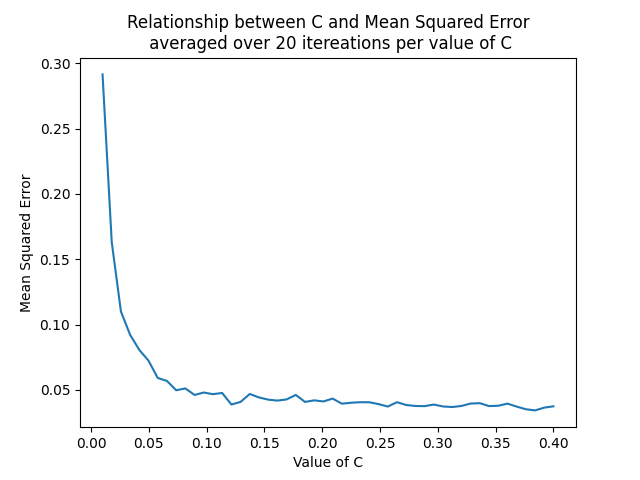
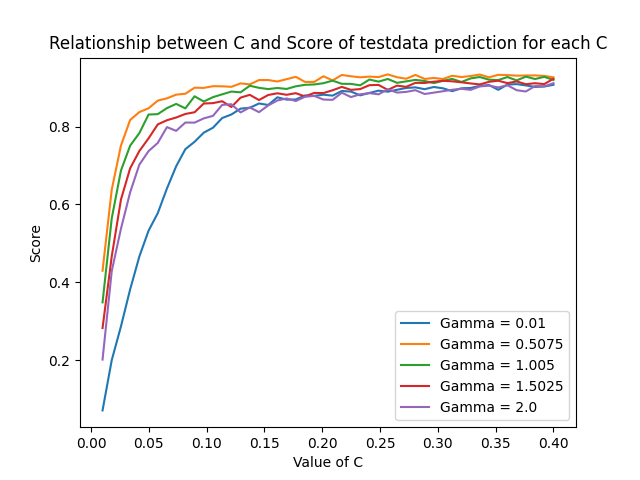
..

diff --git a/08_SVM/HW8.py b/08_SVM/HW8.py
@@ -17,10 +17,16 @@ def _plot_linear_kernel():
     clf = svm.SVC(kernel='linear',C=1000)
     clf.fit(X,t)
     plot_svm_margin(clf, X, t)
-    #plt.show()
-    #plt.savefig("08_SVM/1_1_1.png")
+    plt.gcf
+    plt.title("Linear Kernel")
+    plt.xlabel("Feature 1")
+    plt.ylabel("Feature 2")
+    plt.savefig("08_SVM/1_1_1.png")
+    plt.show()
 
 
+
+_plot_linear_kernel()
 def _subplot_svm_margin(
     svc,
     X: np.ndarray,
@@ -44,8 +50,14 @@ def _subplot_svm_margin(
     # and index is the index of the current plot being generated
     
     plt.subplot(1,num_plots,index)
+    
 
     plt.scatter(X[:, 0], X[:, 1], c=t, s=30, cmap=plt.cm.Paired)
+
+
+    
+
+
 
     # plot the decision function
     ax = plt.gca()
@@ -80,8 +92,10 @@ def _subplot_svm_margin(
 
 
 def _compare_gamma():
+
     X, t = make_blobs(n_samples=40, centers=2, random_state=6)
 
+    
     clf = svm.SVC(kernel='rbf',C=1000)
     clf.fit(X,t)
     
@@ -89,12 +103,16 @@ def _compare_gamma():
     anchored_text = AnchoredText("Gamma: {}".format(clf.gamma) , loc=3)
     ax = plt.gca()
     ax.add_artist(anchored_text)
+    plt.xlabel("Feature 1")
+    plt.ylabel("Feature 2")
 
 
     clf = svm.SVC(kernel='rbf',C=1000, gamma=0.2)
     clf.fit(X,t)
     ...
     _subplot_svm_margin(clf, X, t, 3, 2)
+    plt.xlabel("Feature 1")
+    plt.title('Compare Gamma')
     anchored_text = AnchoredText("Gamma: {}".format(clf.gamma) , loc=3)
     ax = plt.gca()
     ax.add_artist(anchored_text)
@@ -103,16 +121,24 @@ def _compare_gamma():
     clf.fit(X,t)
 
     _subplot_svm_margin(clf, X, t, 3, 3)
+    plt.xlabel("Feature 1")
     anchored_text = AnchoredText("Gamma: {}".format(clf.gamma) , loc=3)
     ax = plt.gca()
     ax.add_artist(anchored_text)
+
+
+
+
     plt.savefig("08_SVM/1_3_1.png")
     plt.show()
 
 
 def _compare_C():
+
+
     X, t = make_blobs(n_samples=40, centers=2, random_state=6)
     plt.figure(figsize=(15,10)) 
+    plt.title('Compare C')
     clf = svm.SVC(kernel='linear',C=1000)
     clf.fit(X,t)
 
@@ -123,13 +149,17 @@ def _compare_C():
     clf = svm.SVC(kernel='linear',C=0.5)
     clf.fit(X,t)
 
+    plt.xlabel("Feature 1")
+    plt.ylabel("Feature 2")
+
     _subplot_svm_margin(clf, X, t, 5, 2)
     anchored_text = AnchoredText("C: {}".format(clf.C) , loc=3)
     ax = plt.gca()
     ax.add_artist(anchored_text)
     clf = svm.SVC(kernel='linear',C=0.3)
     clf.fit(X,t)
-    
+    plt.xlabel("Feature 1")
+
 
     _subplot_svm_margin(clf, X, t, 5, 3)
     anchored_text = AnchoredText("C: {}".format(clf.C) , loc=3)
@@ -137,18 +167,23 @@ def _compare_C():
     ax.add_artist(anchored_text)
     clf = svm.SVC(kernel='linear',C=0.05)
     clf.fit(X,t)
-
+    plt.xlabel("Feature 1")
+    plt.title('Compare C')
     _subplot_svm_margin(clf, X, t, 5, 4)
     anchored_text = AnchoredText("C: {}".format(clf.C) , loc=3)
     ax = plt.gca()
     ax.add_artist(anchored_text)
     clf = svm.SVC(kernel='linear',C=0.0001)
     clf.fit(X,t)
+    plt.xlabel("Feature 1")
 
     _subplot_svm_margin(clf, X, t, 5, 5)
     anchored_text = AnchoredText("C: {}".format(clf.C) , loc=3)
     ax = plt.gca()
     ax.add_artist(anchored_text)
+    plt.xlabel("Feature 1")
+
+    
     plt.savefig("08_SVM/1_5_1.png")
     plt.show()
 
@@ -178,14 +213,14 @@ def train_test_SVM(
 #_plot_linear_kernel()
 #_compare_gamma()
 #_compare_C()
-
+#_compare_gamma()
 
 
 res=np.empty((3,4))
 
 fcns=['linear', 'rbf', 'poly']
 
-
+'''
 
 for i in range(3):
     accs, precs, recs, times = [], [], [], []
@@ -214,3 +249,4 @@ tab = np.append(np.array(fcns), res, axis=1)
 
 print (tabulate(tab, headers=a))
 
+'''

diff --git a/07_linear_models/test.py b/07_linear_models/test.py
@@ -2,9 +2,92 @@ import numpy as np # linear algebra
 import pandas as pd # data processing, CSV file I/O (e.g. pd.read_csv)
 import matplotlib.pyplot as plt
 import scipy.stats as stats
+from posixpath import split
+from typing import Union
+
+import numpy as np
+import sklearn.datasets as datasets
+
+import numpy as np
+import sklearn.datasets as datasets
+from scipy.stats import multivariate_normal
+from sklearn import metrics
 
 
+def split_train_test(
+    features: np.ndarray,
+    targets: np.ndarray,
+    train_ratio: float = 0.8
+) -> Union[tuple, tuple]:
+    '''
+    Shuffle the features and targets in unison and return
+    two tuples of datasets, first being the training set,
+    where the number of items in the training set is according
+    to the given train_ratio
+    '''
+    
+    p = np.random.permutation(features.shape[0])
+    features = features[p]
+    targets = targets[p]
+
+    split_index = int(features.shape[0] * train_ratio)
+
+    train_features, train_targets = features[0:split_index, :],\
+        targets[0:split_index]
+    test_features, test_targets = features[split_index:-1, :],\
+        targets[split_index: -1]
+
+    return (train_features, train_targets), (test_features, test_targets)
 
 
+def load_regression_iris():
+    '''
+    Load the regression iris dataset that contains N
+    input features of dimension F-1 and N target values.
 
+    Returns:
+    * features (np.ndarray): A [N x F-1] array of input features
+    * targets (np.ndarray): A [N,] array of target values
+    '''
+    iris = datasets.load_iris()
+    return iris.data[:, 0:3], iris.data[:, 3]
+
+
+# N-dimensional using numpy
+
+from mpl_toolkits.mplot3d import Axes3D
+from scipy.stats import multivariate_normal
+
+'''Class for Gaussian Kernel Regression'''
+class GKR:
+    
+    def __init__(self, x, y, b):
+        self.x = np.array(x)
+        self.y = np.array(y)
+        self.b = b
+    
+    '''Implement the Gaussian Kernel'''
+    def gaussian_kernel(self, z):
+        return (1/np.sqrt(2*np.pi))*np.exp(-0.5*z**2)
+    
+    '''Calculate weights and return prediction'''
+    def predict(self, X):
+        kernels = np.array([self.gaussian_kernel((np.linalg.norm(xi-X))/self.b) for xi in self.x])
+        weights = np.array([len(self.x) * (kernel/np.sum(kernels)) for kernel in kernels])
+        return np.dot(weights.T, self.y)/len(self.x)
+    
+
+X, t = load_regression_iris()
+
+(d_train, t_train), (d_test, t_test) = split_train_test(X, t, train_ratio=0.9)
+
+gkr = GKR(d_train, t_train, 0.09)
+
+
+pred = []
+for d in d_test:
+    pred.append(gkr.predict(d))
+
+
+print(metrics.mean_squared_error(t_test,np.array(pred)))
 

diff --git a/08_SVM/bonus8.py b/08_SVM/bonus8.py
@@ -91,44 +91,48 @@ def train_test_SVM(
     
     y = svc.predict(X_test)
     end = timeit.default_timer()
-    print(end-start)
-    return metrics.mean_squared_error(t_test,y), end-start
-
-#_plot_linear_kernel()
-#_compare_gamma()
-#_compare_C()
+    #print(end-start)
+    #metrics.mean_squared_error(t_test,y)
+    return svc.score(d_test,t_test), end-start
 
 
-
-res=np.empty((50,3))
 
 X, t = load_regression_diabetes()
-X, t = load_regression_iris()
+#X, t = load_regression_iris()
 
 (d_train, t_train), (d_test, t_test) = split_train_test(X, t, train_ratio=0.7)
 iter=0
 
-for c in np.linspace(0.01, 0.4, num=50):
 
-    msqrs, times = [], []
-    for n in range(20):    
-        X, t = load_regression_iris()
+for g in np.linspace(0.01, 2, num=5):
 
-        (d_train, t_train), (d_test, t_test) = split_train_test(X, t, train_ratio=0.7)
-        svc = svm.SVR(kernel='rbf',C=c)
-        msqr, time = train_test_SVM(svc, d_train, t_train, d_test, t_test)
-        msqrs.append(msqr)
-        times.append(time)
-        print(c,n)
-    res[iter] = [mean(msqrs), mean(times), c] 
-    iter=iter+1
+    res=[]
+    for c in np.linspace(0.01, 0.4, num=50):
 
-plt.clf()
-plt.title('Relationship between C and Mean Squared Error\n averaged over 20 itereations per value of C')
-plt.plot(res[:,2],res[:,0])
+        msqrs, times = [], []
+        for n in range(20):    
+            X, t = load_regression_iris()
+
+            (d_train, t_train), (d_test, t_test) = split_train_test(X, t, train_ratio=0.7)
+            svc = svm.SVR(kernel='rbf',C=c, gamma=g)
+            msqr, time = train_test_SVM(svc, d_train, t_train, d_test, t_test)
+            msqrs.append(msqr)
+            times.append(time)
+            print(c,n)
+        res.append([mean(msqrs), mean(times), c, g])
+        iter=iter+1
+    res=np.array(res)
+    plt.plot(res[:,2],res[:,0], label='Gamma = {}'.format(g))
+
+res=np.array(res)
+
+#plt.clf()
+plt.title('Relationship between C and Score of testdata prediction for each C')
+#plt.plot(res[:,2],res[:,0])
 plt.xlabel("Value of C")
-plt.ylabel("Mean Squared Error")
+plt.ylabel("Score")
+plt.legend(loc='lower right')
 
-plt.savefig("./08_SVM/bonus_1.png")
+plt.savefig("./08_SVM/bonus_2.png")
 plt.show()
 

diff --git a/07_linear_models/HW7.py b/07_linear_models/HW7.py
@@ -43,6 +43,11 @@ def _plot_mvn():
     plt.plot(fi)
     
     #plt.show()
+    plt.title('Basis Functions 1 thru 10')
+    plt.xlabel("Number of point")
+    plt.ylabel("Value of fi")
+
+
 
     plt.savefig("07_linear_models/1_2_1.png")
 
@@ -114,7 +119,7 @@ pred = linear_model(X, mu, sigma, wml)
 print(pred)
 
 
-
+_plot_mvn()
 print(np.size(t))
 
 

diff --git a/08_SVM/tools.py b/08_SVM/tools.py
@@ -81,4 +81,4 @@ def plot_svm_margin(
         svc.support_vectors_[:, 0],
         svc.support_vectors_[:, 1],
         s=100, linewidth=1, facecolors='none', edgecolors='k')
-    plt.show()
+
